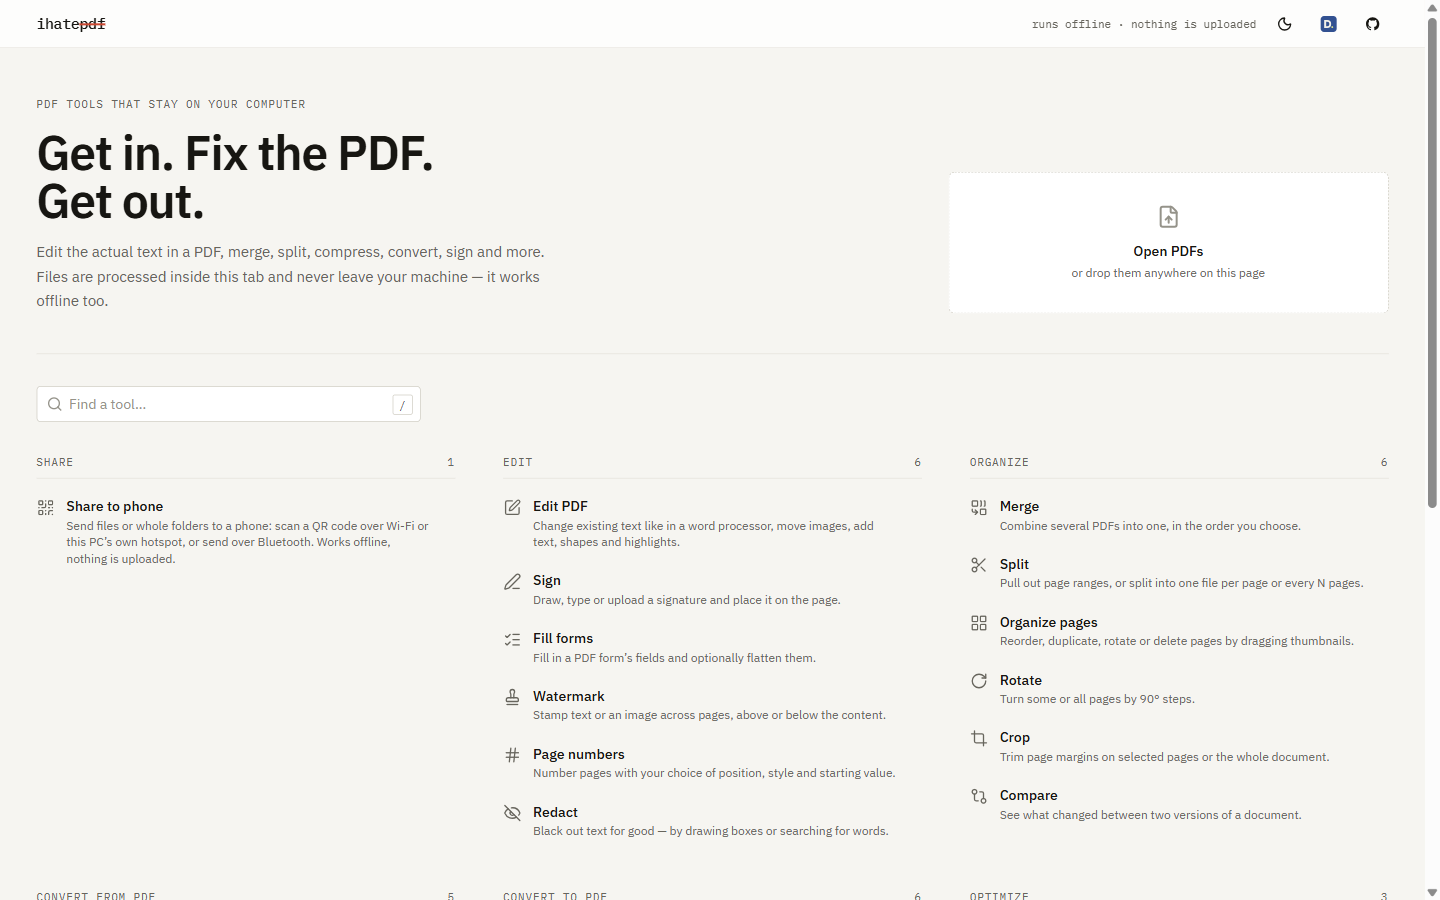
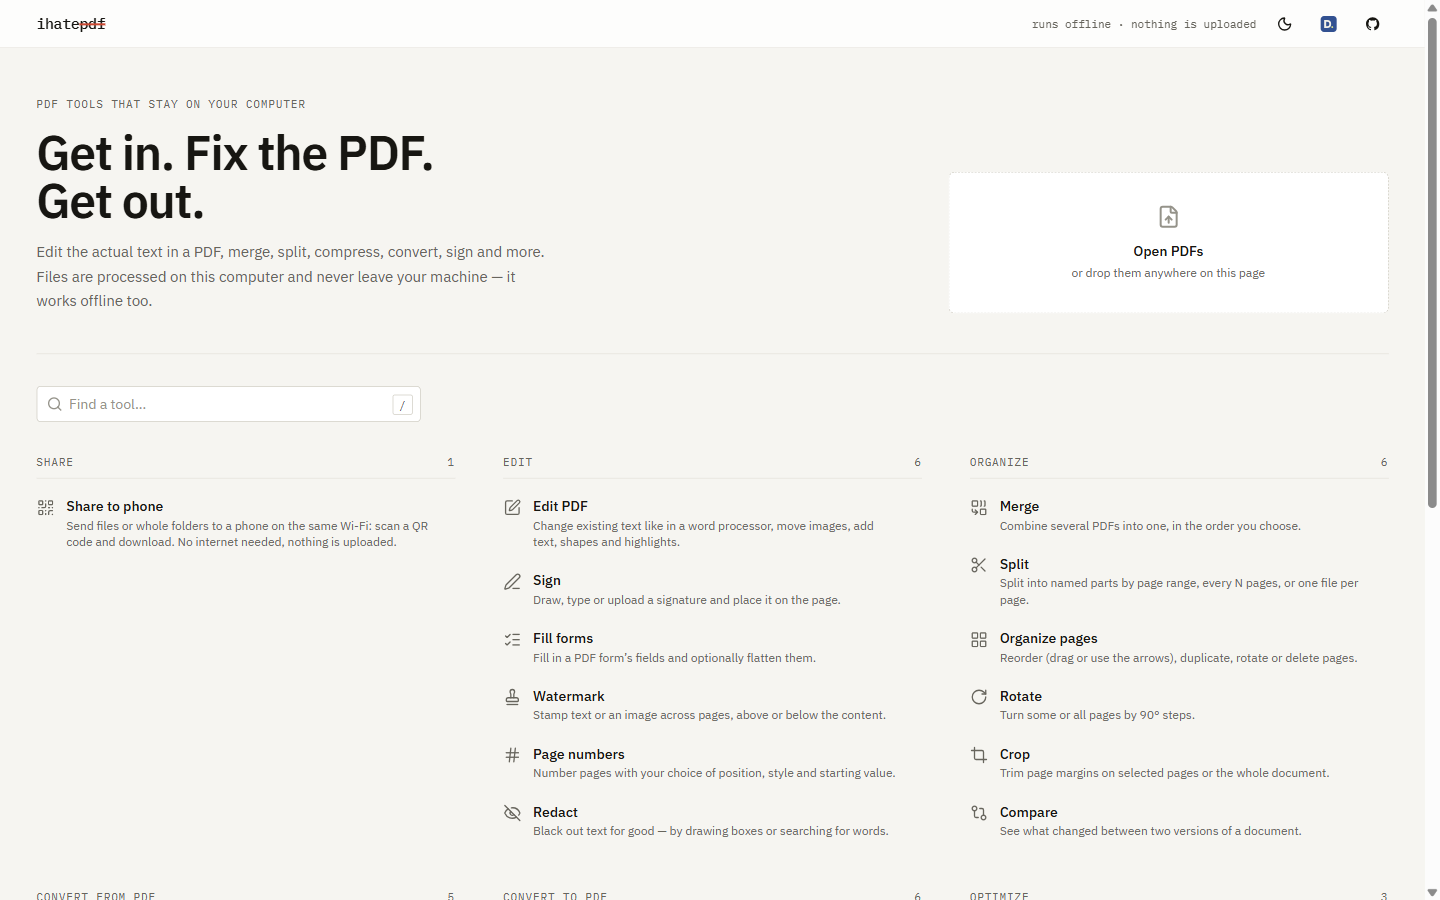
2.2.3: app wording matches 2.x (Share Wi-Fi only, "on this computer")
- Share to phone offers only Same Wi-Fi (hotspot/Bluetooth only answered
  "not in this build" in 2.x; their code stays for later); tool
  description says Wi-Fi.
- Home and footer say files are processed on this computer in the app
  ("in this browser tab" stays for the browser build); footer lists Rust
  and PDFium in the app.
- Split and Organize descriptions mention named parts and the arrows.
- README top line for 2.2.3; screenshots retaken (home, Compress, Split,
  Organize, Share) from the app built from this code.

diff --git a/src/constants/tools.ts b/src/constants/tools.ts
@@ -7,8 +7,8 @@ import type { ToolCategory, ToolMetadata, ToolType } from '../types/pdf';
 export const TOOLS: ToolMetadata[] = [
   // Organize
   { id: 'merge', title: 'Merge', description: 'Combine several PDFs into one, in the order you choose.', icon: 'Combine', color: '', category: 'organize', acceptedFiles: 'multiple', keywords: 'combine join append' },
-  { id: 'split', title: 'Split', description: 'Pull out page ranges, or split into one file per page or every N pages.', icon: 'Scissors', color: '', category: 'organize', acceptedFiles: 'single', keywords: 'extract separate burst' },
-  { id: 'organize', title: 'Organize pages', description: 'Reorder, duplicate, rotate or delete pages by dragging thumbnails.', icon: 'LayoutGrid', color: '', category: 'organize', acceptedFiles: 'single', keywords: 'reorder sort delete pages' },
+  { id: 'split', title: 'Split', description: 'Split into named parts by page range, every N pages, or one file per page.', icon: 'Scissors', color: '', category: 'organize', acceptedFiles: 'single', keywords: 'extract separate burst' },
+  { id: 'organize', title: 'Organize pages', description: 'Reorder (drag or use the arrows), duplicate, rotate or delete pages.', icon: 'LayoutGrid', color: '', category: 'organize', acceptedFiles: 'single', keywords: 'reorder sort delete pages' },
   { id: 'rotate', title: 'Rotate', description: 'Turn some or all pages by 90° steps.', icon: 'RotateCw', color: '', category: 'organize', acceptedFiles: 'single', keywords: 'turn orientation landscape' },
   { id: 'crop', title: 'Crop', description: 'Trim page margins on selected pages or the whole document.', icon: 'Crop', color: '', category: 'organize', acceptedFiles: 'single', keywords: 'trim margins' },
   { id: 'compare', title: 'Compare', description: 'See what changed between two versions of a document.', icon: 'GitCompare', color: '', category: 'organize', acceptedFiles: 'multiple', input: 'other', keywords: 'diff difference versions' },
@@ -46,7 +46,7 @@ export const TOOLS: ToolMetadata[] = [
   { id: 'unlock', title: 'Unlock', description: 'Remove a password or printing/copying restrictions you’re allowed to remove.', icon: 'Unlock', color: '', category: 'security', acceptedFiles: 'single', keywords: 'decrypt remove password restrictions' },
 
   // Share
-  { id: 'share', title: 'Share to phone', description: 'Send files or whole folders to a phone: scan a QR code over Wi-Fi or this PC’s own hotspot, or send over Bluetooth. Works offline, nothing is uploaded.', icon: 'QrCode', color: '', category: 'share', acceptedFiles: 'multiple', input: 'other', keywords: 'qr code bluetooth hotspot wifi send transfer phone mobile folder filebin offline' },
+  { id: 'share', title: 'Share to phone', description: 'Send files or whole folders to a phone on the same Wi-Fi: scan a QR code and download. No internet needed, nothing is uploaded.', icon: 'QrCode', color: '', category: 'share', acceptedFiles: 'multiple', input: 'other', keywords: 'qr code bluetooth hotspot wifi send transfer phone mobile folder filebin offline' },
 ];
 
 export const CATEGORIES: Array<{ id: ToolCategory; label: string }> = [

diff --git a/src/features/share/ShareView.tsx b/src/features/share/ShareView.tsx
@@ -11,11 +11,9 @@ interface ShareViewProps {
 
 type Mode = 'wifi' | 'hotspot' | 'bluetooth';
 
-const MODES: Array<{ value: Mode; label: string }> = [
-  { value: 'wifi', label: 'Same Wi-Fi' },
-  { value: 'hotspot', label: 'PC hotspot (offline)' },
-  { value: 'bluetooth', label: 'Bluetooth (offline)' },
-];
+// ponytail: 2.x only has the Wi-Fi server (src-tauri/src/share.rs); the hotspot and Bluetooth code below stays for
+// when they are ported, but they are not offered (picking them only gave a "not in this build" error).
+const MODES: Array<{ value: Mode; label: string }> = [{ value: 'wifi', label: 'Same Wi-Fi' }];
 
 const MODE_INFO: Record<Mode, { title: string; body: string }> = {
   wifi: {
@@ -425,7 +423,7 @@ export const ShareView: React.FC<ShareViewProps> = ({ onBack }) => {
 
       <section className="space-y-3">
         <h3 className="label-mono">2 · How the phone connects</h3>
-        <Segmented value={mode} onChange={setMode} options={MODES} />
+        {MODES.length > 1 && <Segmented value={mode} onChange={setMode} options={MODES} />}
         <Notice tone="info" title={MODE_INFO[mode].title}>
           {MODE_INFO[mode].body}
         </Notice>

diff --git a/src/components/common/Footer.tsx b/src/components/common/Footer.tsx
@@ -19,16 +19,19 @@ const UsageLogNotice: React.FC = () => {
   );
 };
 
+/** The desktop app (Tauri) has a bridge; the browser build doesn't. */
+const inApp = () => !!window.ihpDesktop;
+
 export const Footer: React.FC = () => (
   <footer className="border-t border-line mt-auto">
     <div className="max-w-[1400px] mx-auto px-4 sm:px-6 py-6 flex flex-col sm:flex-row gap-2 sm:items-center justify-between text-xs text-muted">
       <div className="flex flex-col gap-1">
         <p>
-          <Wordmark className="text-ink" /> — every tool runs in this browser tab. No uploads, no accounts, no page limits.
+          <Wordmark className="text-ink" /> — every tool runs {inApp() ? 'on this computer' : 'in this browser tab'}. No uploads, no accounts, no page limits.
         </p>
         <UsageLogNotice />
       </div>
-      <p className="font-mono text-2xs">pdf-lib · pdf.js · MIT licensed</p>
+      <p className="font-mono text-2xs">{inApp() ? 'Rust · PDFium · pdf-lib · MIT licensed' : 'pdf-lib · pdf.js · MIT licensed'}</p>
     </div>
   </footer>
 );

diff --git a/src/components/home/Home.tsx b/src/components/home/Home.tsx
@@ -194,8 +194,8 @@ export const Home: React.FC<HomeProps> = ({ onOpenTool }) => {
                 Get out.
               </h1>
               <p className="text-muted mt-4 max-w-lg text-[15px] leading-relaxed">
-                Edit the actual text in a PDF, merge, split, compress, convert, sign and more. Files are processed inside
-                this tab and never leave your machine — it works offline too.
+                Edit the actual text in a PDF, merge, split, compress, convert, sign and more. Files are processed{' '}
+                {window.ihpDesktop ? 'on this computer' : 'inside this tab'} and never leave your machine — it works offline too.
               </p>
             </div>
             <div className="space-y-3">

diff --git a/docs/RELEASE_NOTES.md b/docs/RELEASE_NOTES.md
@@ -1,12 +1,20 @@
-# IHatePDF v2.2.2
+# IHatePDF v2.2.3
 
-The desktop app on **Tauri** with a **Rust core** (since 2.0). 2.2.2 is a small fix on top of 2.2.1.
+The desktop app on **Tauri** with a **Rust core** (since 2.0). 2.2.3 brings the app's own wording up to date.
 
 ## Install
 
 1. Download **IHatePDF-Setup.exe** below, under *Assets* (about 26 MB).
 2. Run it. If Windows says *"Windows protected your PC"*, click **More info → Run anyway**. The installer isn't code-signed.
 3. It installs for your Windows account only (no administrator permission). Updating from 2.x installs over it. Coming from 1.x: uninstall 1.x first from *Settings → Apps*. Your saved files are never touched. It needs Microsoft Edge WebView2, which is part of Windows 10 and 11.
+
+## New in 2.2.3
+
+- **Share to phone** only offers what 2.x has: Same Wi-Fi. The PC hotspot and Bluetooth choices (which only answered "not in this build yet") are gone, and the tool's description says Wi-Fi.
+- The home screen and footer say files are processed **on this computer** (they said "in this browser tab", which is only true of the browser version); the footer lists Rust and PDFium.
+- Split and Organize pages describe what they do now (named parts; the reorder arrows).
+
+Changes since 2.2.2: [v2.2.2...v2.2.3](https://github.com/Burthcer/IHatePDF/compare/v2.2.2...v2.2.3).
 
 ## New in 2.2.2
 
@@ -21,7 +29,7 @@ Changes since 2.2.1: [v2.2.1...v2.2.2](https://github.com/Burthcer/IHatePDF/comp
 - **Split: overlaps and gaps are pointed out.** A page that goes into two parts (say part 2 changed to `5-12` while part 1 is `1-5`) gets both parts' colours and an amber "parts 1, 2" label, and each part's card says "Page 5 is also in part 1 (in both files)". Pages that are in no part are listed ("Not in any part (left out): 11-12").
 - A part that the app filled in but has no pages left says so instead of a generic range error.
 
-Changes since 2.2.0: [v2.2.0...v2.2.1](https://github.com/Burthcer/IHatePDF/compare/v2.2.0...v2.2.1). Earlier releases: [v2.2.1](https://github.com/Burthcer/IHatePDF/releases/tag/v2.2.1), [v2.2.0](https://github.com/Burthcer/IHatePDF/releases/tag/v2.2.0), [v2.1.0](https://github.com/Burthcer/IHatePDF/releases/tag/v2.1.0), [v2.0.0](https://github.com/Burthcer/IHatePDF/releases/tag/v2.0.0).
+Changes since 2.2.0: [v2.2.0...v2.2.1](https://github.com/Burthcer/IHatePDF/compare/v2.2.0...v2.2.1). Earlier releases: [v2.2.2](https://github.com/Burthcer/IHatePDF/releases/tag/v2.2.2), [v2.2.1](https://github.com/Burthcer/IHatePDF/releases/tag/v2.2.1), [v2.2.0](https://github.com/Burthcer/IHatePDF/releases/tag/v2.2.0), [v2.1.0](https://github.com/Burthcer/IHatePDF/releases/tag/v2.1.0), [v2.0.0](https://github.com/Burthcer/IHatePDF/releases/tag/v2.0.0).
 
 ## New in 2.2.0
 
@@ -48,8 +56,9 @@ Changes since 2.2.0: [v2.2.0...v2.2.1](https://github.com/Burthcer/IHatePDF/comp
 
 **In Rust:** Compress, Merge, Split, Organize pages, Rotate, Crop, Images to PDF (and Scan to PDF), PDF to JPG/PNG, Redact, Watermark, Page numbers, Sign, Repair (PDFium), Word, PowerPoint, Excel and HTML to PDF, PDF to PowerPoint, page previews and text reading (PDFium). Each falls back to the 1.4.0 engine for anything it can't handle, so a tool never does worse than before. Edit PDF, Forms, PDF/A, Protect, Unlock and Compare keep the 1.4.0 engines.
 
-## How 2.2.2 was tested
+## How 2.2.3 was tested
 
+- The desktop app built from this code: home, footer, Share, Split and Organize text checked on screen (the README screenshots were taken from it).
 - The desktop app built from this code: clicking the GitHub and devbhamaria.com buttons opens both in the default browser (Edge), and the app stays on its page.
 - Every tool end to end (`scripts/e2e/all-tools.mjs`) in the browser build, the installed app (Rust engine) and the phone build. The Split test now also checks that part 2 follows part 1 (`1-3` → `4`), that a typed part stops following, that an overlap is reported ("Page 2 is also in part 1"), and the named output (`test-multi_1_p1-2.pdf` + `Chapter two.pdf`).
 - The same suite on a phone-sized touch screen (Android emulator), plus real finger input: dragging a signature, a crop edge, a redaction box and an Edit PDF text block, and the reorder arrows.

diff --git a/README.md b/README.md
@@ -13,7 +13,7 @@
 ![Runs offline](https://img.shields.io/badge/runs-100%25_offline-247a48?style=flat-square)
 [![License: MIT](https://img.shields.io/badge/license-MIT-171612?style=flat-square)](LICENSE)
 
-**New in [2.2.2](https://github.com/Burthcer/IHatePDF/releases/tag/v2.2.2):** the GitHub button in the app works again, and a new button links to [devbhamaria.com](https://devbhamaria.com). Older versions: [all releases](https://github.com/Burthcer/IHatePDF/releases).
+**New in [2.2.3](https://github.com/Burthcer/IHatePDF/releases/tag/v2.2.3):** the app's wording matches what it does: Share to phone offers Wi-Fi only, and the app says files are processed on this computer. Older versions: [all releases](https://github.com/Burthcer/IHatePDF/releases).
 
 <br>
 
